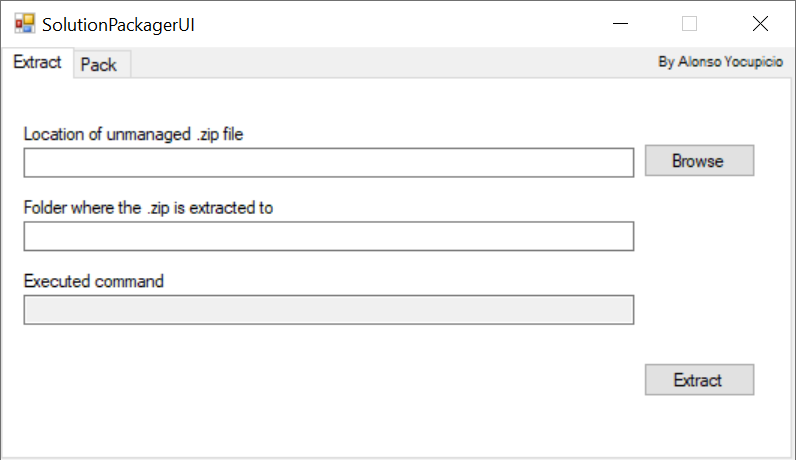
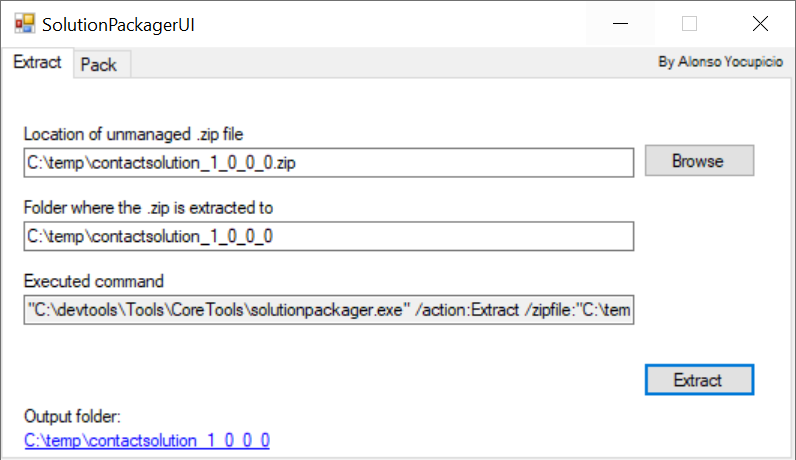
Changed Images

diff --git a/README.md b/README.md
@@ -21,8 +21,12 @@ Example:
 ## Usage
 The following sections show you how to run the tool and how to use the tool with managed and un-managed solutions.
 
-To Extract  
+To Extract
+Browse for compressed solution file and then click Extract button.
  ![extract](https://raw.githubusercontent.com/yocupicio/SolutionPackagerUI/master/images/extract.png)
 
-To Pack  
+To Pack
+Type the folder where the solution was extracted or navigate to the directory using Browse button.
+Enter the location where the .zip file will be saved.
+Click Pack button.
  ![pack](https://raw.githubusercontent.com/yocupicio/SolutionPackagerUI/master/images/pack.png)
